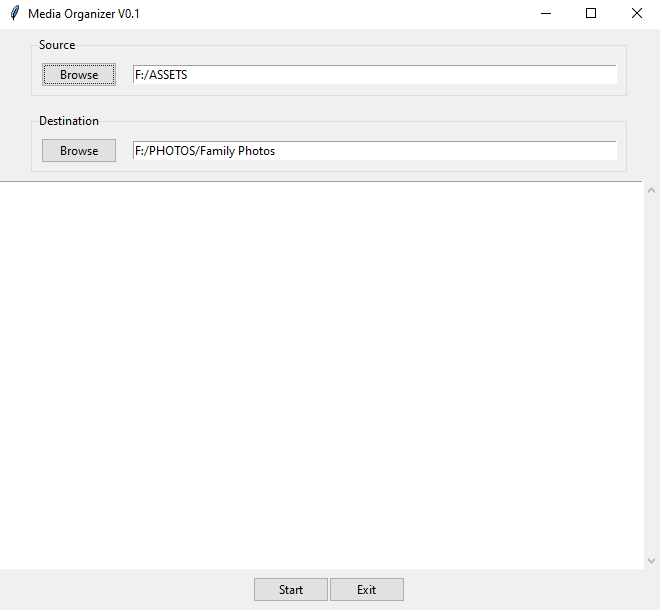
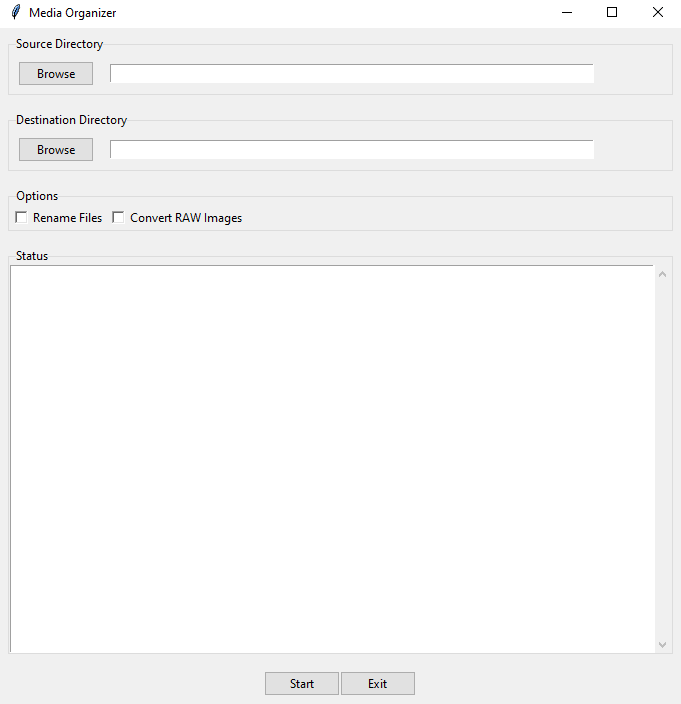
optimizations and bug fixes
fixed issue with nonresponsive GUI

diff --git a/MediaOrganizer_GUI.py b/MediaOrganizer_GUI.py
@@ -1,4 +1,9 @@
-from functions.media_organize import media_organize
+from functions.RAW_to_JPEG import raw_to_jpeg
+
+from threading import Thread
+from shutil import copy
+from time import ctime
+from datetime import datetime
 import logging
 import os
 from sys import exit
@@ -6,9 +11,10 @@ from sys import exit
 try:
     from tkinter import *
     from tkinter import messagebox, ttk, filedialog, scrolledtext
+    from tkinter.ttk import Progressbar
 except ImportError as e:
+    logging.error(f'ERROR: {e}')
     exit('Please install tkinter using pip3 install tkinter')
-    
 
 
 class TextHandler(logging.Handler):
@@ -33,6 +39,16 @@ class TextHandler(logging.Handler):
 class App(Tk):
     def __init__(self, title):
         super(App, self).__init__()
+
+        self.photo_ext = ('.jpg', '.jpeg', '.JPG', '.JPEG', '.png', '.PNG')
+        self.raw_photo_ext = ('.CR2', '.ARW', '.NEF', '.CRW', '.DNG', '.TIF')
+        self.video_ext = ('.mov', '.m4v', '.mp4', '.wmv', '.wma', '.avi', '.MOV', '.MPG')
+
+        self.photo_count = 0
+        self.video_count = 0
+        self.total_media = 0
+        self.processed_media = 0
+
         self.title(title)
 
         padding = 8
@@ -49,7 +65,63 @@ class App(Tk):
 
         self.start_gui(padding, entry_width)
 
+
+    def count_media_files(self):
+        # counts all of the media files in the root folder (used later for pbar)
+        self.photo_count = 0
+        self.video_count = 0
+        self.total_media = 0
+        self.processed_media = 0
+
+        logging.info('Starting folder analysis...')
+
+        for root, _, files in os.walk(self.source_dir):
+            for file in files:
+                filename = os.path.join(root, file)
+
+                if filename.endswith(self.photo_ext) or filename.endswith(self.raw_photo_ext):
+                    self.photo_count += 1
+
+                elif filename.endswith(self.video_ext):
+                    self.video_count += 1
+
+        self.total_media = self.photo_count + self.video_count
+        logging.info(f'Analysis complete. {self.photo_count} photos and {self.video_count} videos found.')
         
+
+    # returns the year and full date of file creation
+    def date_created(self, file):
+        c_time = ctime(os.path.getmtime(file))
+        formatted_time = str(datetime.strptime(c_time, "%a %b %d %H:%M:%S %Y"))
+        date = formatted_time.split(' ')[0]
+        year = date.split('-')[0]
+        return year, date
+
+
+    # makes sure the directory in question exists. If not, make it
+    def check_dir(self, directory):
+        if not os.path.exists(directory):
+            try:
+                os.makedirs(directory)
+            except PermissionError:
+                logging.error(f'Insufficient permissions to create directory at: {directory}')
+
+
+    def copy_media(self, filename, source_path, destination_path, destination_folder):
+        if not source_path.startswith('.'):
+            # make sure the path you want to save to exists (for organization purposes)
+            self.check_dir(destination_folder)
+
+            # If the file doesn't already exist, copy it.
+            if not os.path.exists(destination_path):
+                copy(source_path, destination_path)
+                logging.info(f'Copied file: {filename}')
+            else:
+                logging.info(f'File skipped: {filename}')
+
+            self.processed_media += 1
+
+
     def start_gui(self, padding, entry_width):
         # Source
         source_frame = ttk.LabelFrame(self, text='Source Directory')
@@ -83,9 +155,13 @@ class App(Tk):
         self.convert_raw_checkbox = Checkbutton(opt_frame, text='Convert RAW Images', variable=self.convert_raw, onvalue=True, offvalue=False)
         self.convert_raw_checkbox.grid(column=1, row=0)
 
-        # logs
-        st = scrolledtext.ScrolledText(self)
-        st.grid(column=0, row=10, columnspan=2, sticky='EW')
+        # Logs frame
+        log_frame = ttk.LabelFrame(self, text='Status')
+        log_frame.grid(column=0, row=3, columnspan=2, padx=padding, pady=padding, sticky='EW')
+
+            # logs
+        st = scrolledtext.ScrolledText(log_frame)
+        st.grid(sticky='EW')
         text_handler = TextHandler(st)
         logging.basicConfig(
             filename='media_organize.log',
@@ -93,6 +169,15 @@ class App(Tk):
 
         logger = logging.getLogger()
         logger.addHandler(text_handler)
+
+        # # Progress Frame
+        # progress_frame = ttk.LabelFrame(self, text='Progress')
+        # progress_frame.grid(column=0, row=4, columnspan=2, padx=padding, pady=padding, sticky='EW')
+        # progress_frame.grid_columnconfigure(0, weight=1)
+
+        #     # Progress Bar
+        # self.pbar = Progressbar(progress_frame, orient=HORIZONTAL, length=self.total_media, mode='determinate')
+        # self.pbar.grid(column=0, row=0, sticky='EW', pady=padding, padx=padding)
 
         # Begin button
         start_button = ttk.Button(self, text='Start', command=self.start)
@@ -116,34 +201,76 @@ class App(Tk):
 
 
     def start(self):
-        source = self.source_entry.get()
-        destination = self.dest_entry.get()
+        logging.info('=====================================================\n')
 
-        if source == '' or destination == '':
-            messagebox.showerror('Error', 'Please specify source and destination directories')
+        self.source_dir = self.source_entry.get()
+        self.dest_dir = self.dest_entry.get()
+
+        if self.source_dir == '' or self.dest_dir == '':
+            logging.error('ERROR: Please specify source and destination folders.')
+            messagebox.showerror('Error', 'Please specify source and destination folders.')
+
+        elif self.source_dir == self.dest_dir:
+            logging.error('ERROR: Source directory and destination directory cannot be the same.')
+            messagebox.showerror('Error', 'Source directory and destination directory cannot be the same.')
 
         else:
-            logging.info(f'Source folder: {source}\nDestination folder: {destination}')
-            logging.info('Starting folder analysis...')
+            self.count_media_files()
 
-            for _, dirs, files in os.walk(source):
-                self.total_files += len(files)
-                self.total_dirs += len(dirs)
+            logging.info(f'Source folder: {self.source_dir}\nDestination folder: {self.dest_dir}')
+            logging.info(f'RAW image conversion set to {self.convert_raw.get()}')
+            logging.info(f'File renaming set to {self.rename_enable.get()}')
 
-            logging.info(f'\nAnalysis Complete - Total Files: {self.total_files} | Subdirectories: {self.total_dirs}\n')
             logging.info('Starting file copy')
 
-            media_organize(
-                source=source,
-                destination=destination,
-                rename=self.rename_enable.get(),
-                convert_raw=self.convert_raw.get()
-            )
+            for root, dirs, files in os.walk(self.source_dir):
+                for file in files:
+
+                    filename_source = os.path.join(root, file)
+                    y, date = self.date_created(filename_source)
+                    final_folder = os.path.join(self.dest_dir, y)
+
+                    # rename the media if the checkbox is enabled
+                    if self.rename_enable.get():
+                        new_media_name = os.path.join(final_folder, f'{date}_{file}')
+                    else:
+                        new_media_name = os.path.join(final_folder, file)
+
+                    ### COPY PHOTOS
+                    if filename_source.endswith(self.photo_ext):
+                        t = Thread(target=self.copy_media(file, filename_source, new_media_name, final_folder))
+                        t.start()
+
+                    ### COPY RAW IMAGES
+                    elif filename_source.endswith(self.raw_photo_ext):
+
+                        if self.convert_raw.get(): # if the checkbox is enabled, convert the raw image into jpeg
+                            self.check_dir(final_folder)
+                            t = Thread(target=raw_to_jpeg(filename_source, final_folder))
+                            self.processed_media += 1
+
+                        else:
+                            t = Thread(target=self.copy_media(file, filename_source, new_media_name, final_folder))
+
+                        t.start()
+
+                    ### COPY VIDEOS
+                    elif filename_source.endswith(self.video_ext):
+                        t = Thread(target=self.copy_media(file, filename_source, new_media_name, final_folder))
+                        t.start()
+
+                    # self.pbar['value'] = self.processed_media
+                    self.update()
+            
+            logging.info(f'\nFile copy complete. {self.processed_media} media files copied.\n\n=====================================================\n')
+            messagebox.showinfo('Success!', 'File copy complete.')
+
 
     def onExit(self):
+        logging.info('Quitting...')
         exit()
 
 
 if __name__ == '__main__':
-    app = App(title='Media Organizer V0.1')
+    app = App(title='Media Organizer')
     app.mainloop()

diff --git a/functions/RAW_to_JPEG.py b/functions/RAW_to_JPEG.py
@@ -1,4 +1,4 @@
-import os.path
+import os
 import sys
 import logging
 
@@ -11,38 +11,29 @@ except ImportError as e:
 
 logging.getLogger().setLevel(logging.INFO)
 
-def raw_to_jpeg(source_file, destination_folder, delete_old=False):
-    extensions = ('.CR2', '.ARW', '.NEF', '.CRW', '.DNG', '.TIF')
+
+def raw_to_jpeg(source_path, destination_path, delete_old=False):
     images_processed = 0
 
-    if source_file.endswith(extensions):
+    filename = os.path.basename(source_path)
+    converted_path = os.path.join(destination_path, f'{os.path.splitext(filename)[0]}.jpg')
 
-        filename = os.path.basename(source_file)
-        converted_path = os.path.join(destination_folder, f'{os.path.splitext(filename)[0]}.jpg')
+    if not os.path.exists(converted_path):
+        with rawpy.imread(source_path) as raw:
+            rgb = raw.postprocess(
+                gamma=(1.25, 4.5),
+                bright=1.1,
+                no_auto_bright=False,
+                use_camera_wb=True
+            )
 
-        if not os.path.exists(converted_path):
-            with rawpy.imread(source_file) as raw:
-                rgb = raw.postprocess(
-                    gamma=(1.25, 4.5),
-                    bright=1.1,
-                    no_auto_bright=False,
-                    use_camera_wb=True
-                )
+        imageio.imsave(converted_path, rgb)
+        logging.info(f'Converted image: {filename}')
+        images_processed += 1
 
-            imageio.imsave(converted_path, rgb)
-            logging.info(f'Converted image: {filename}')
-            images_processed += 1
+        if delete_old:
+            os.remove(source_path)
+            logging.info(f'Deleted file: {filename}')
 
-            if delete_old:
-                os.remove(source_file)
-                logging.info(f'Deleted file: {filename}')
-
-        else:
-            logging.info(f'Image already exported: {filename}')
-
-
-# if __name__ == '__main__':
-#     # put the starting directory here:
-#     photos_source = 'F:\\PHOTOS\\Family Photos\\189 Oakwood Dr. NW Photos\\2018-04-21_Leahs flowers_001.ARW'
-#     destination_folder = 'C:\\Users\\migil\Desktop\\test'
-#     raw_to_jpeg(photos_source, destination_folder, delete_old=False)
+    else:
+        logging.info(f'Image already exported: {filename}')

diff --git a/README.md b/README.md
@@ -4,9 +4,7 @@
 This simple Python 3 program walks through each file and directory of a given folder and searches for photos and videos. It then copies them to a destination and organizes them into folders based on date created.
 
 ## How To Use
-Open up the `media_organize.py` and edit the variables `source_dir` and `dest_dir`. You can put as many source folders in the list as you like.
-
-You can also use the GUI by launching `MediaOrganizer_GUI.py`.
+Download the repository using `git clone https://github.com/migillett/Media-Organizer.git`. You can then launch the GUI by typing `python3 ./Media-Organizer/MediaOrganizer_GUI.py` into your terminal.
 
 ## Dependencies
-The GUI requires Tkinter. Install it using `pip3 install tkinter`.
+The program requires Tkinter, Rawpy, and ImageIO for it to function properly. Install these dependencies using `pip3 install tkinter rawpy imageio` in your terminal.
